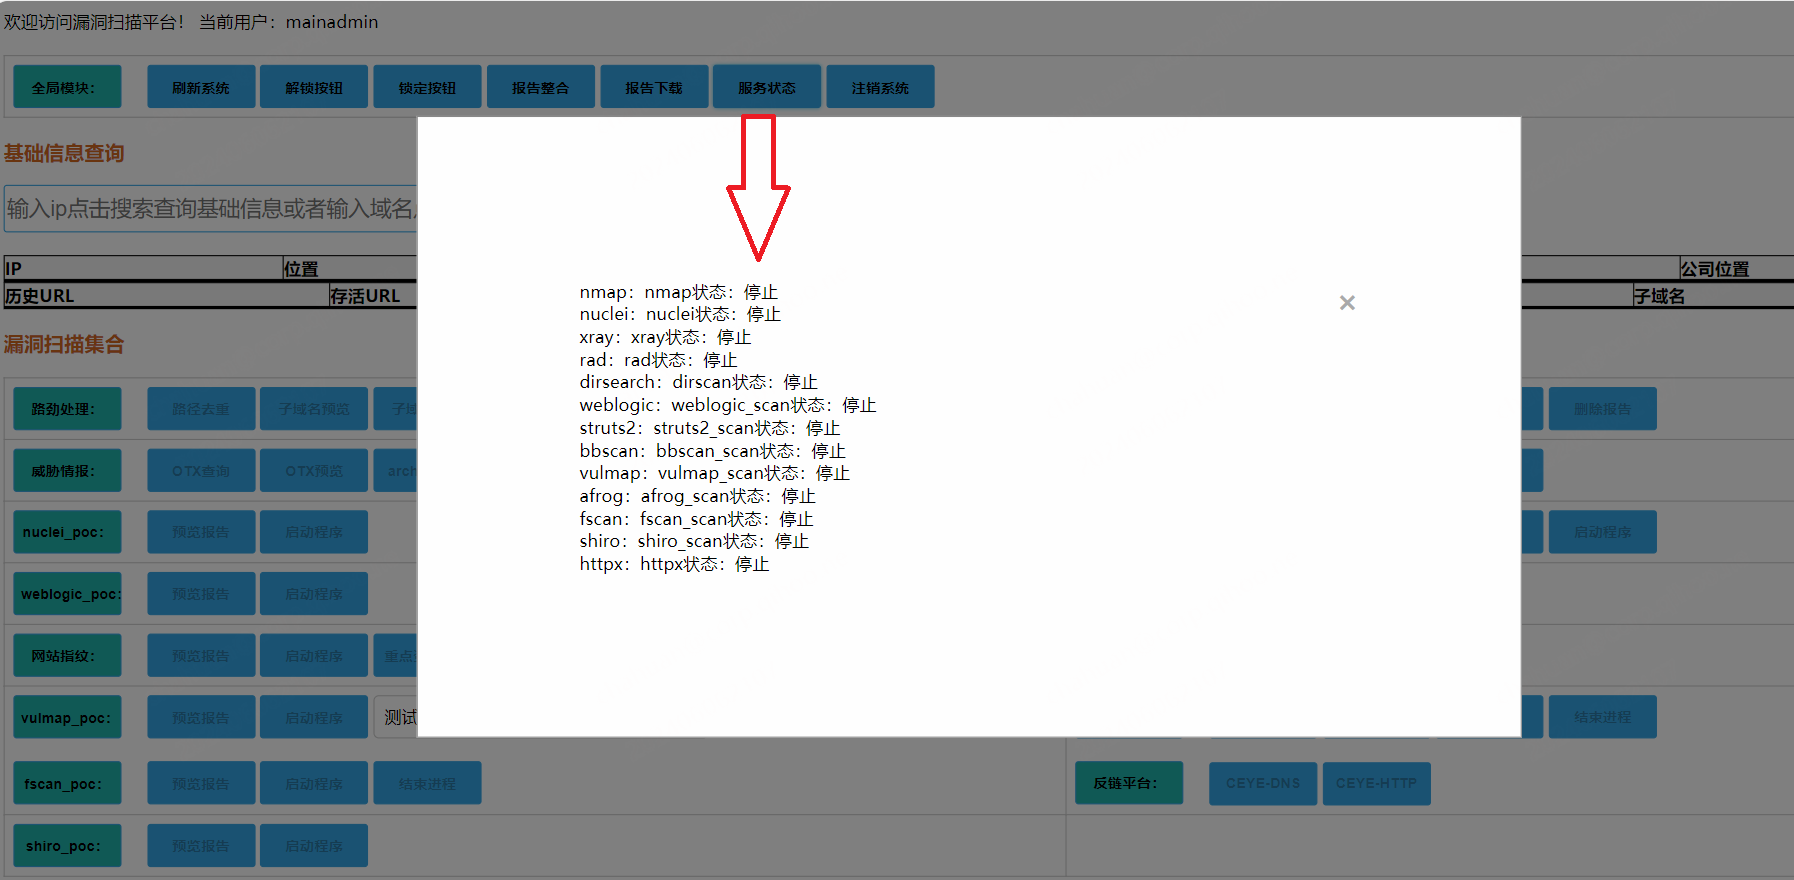
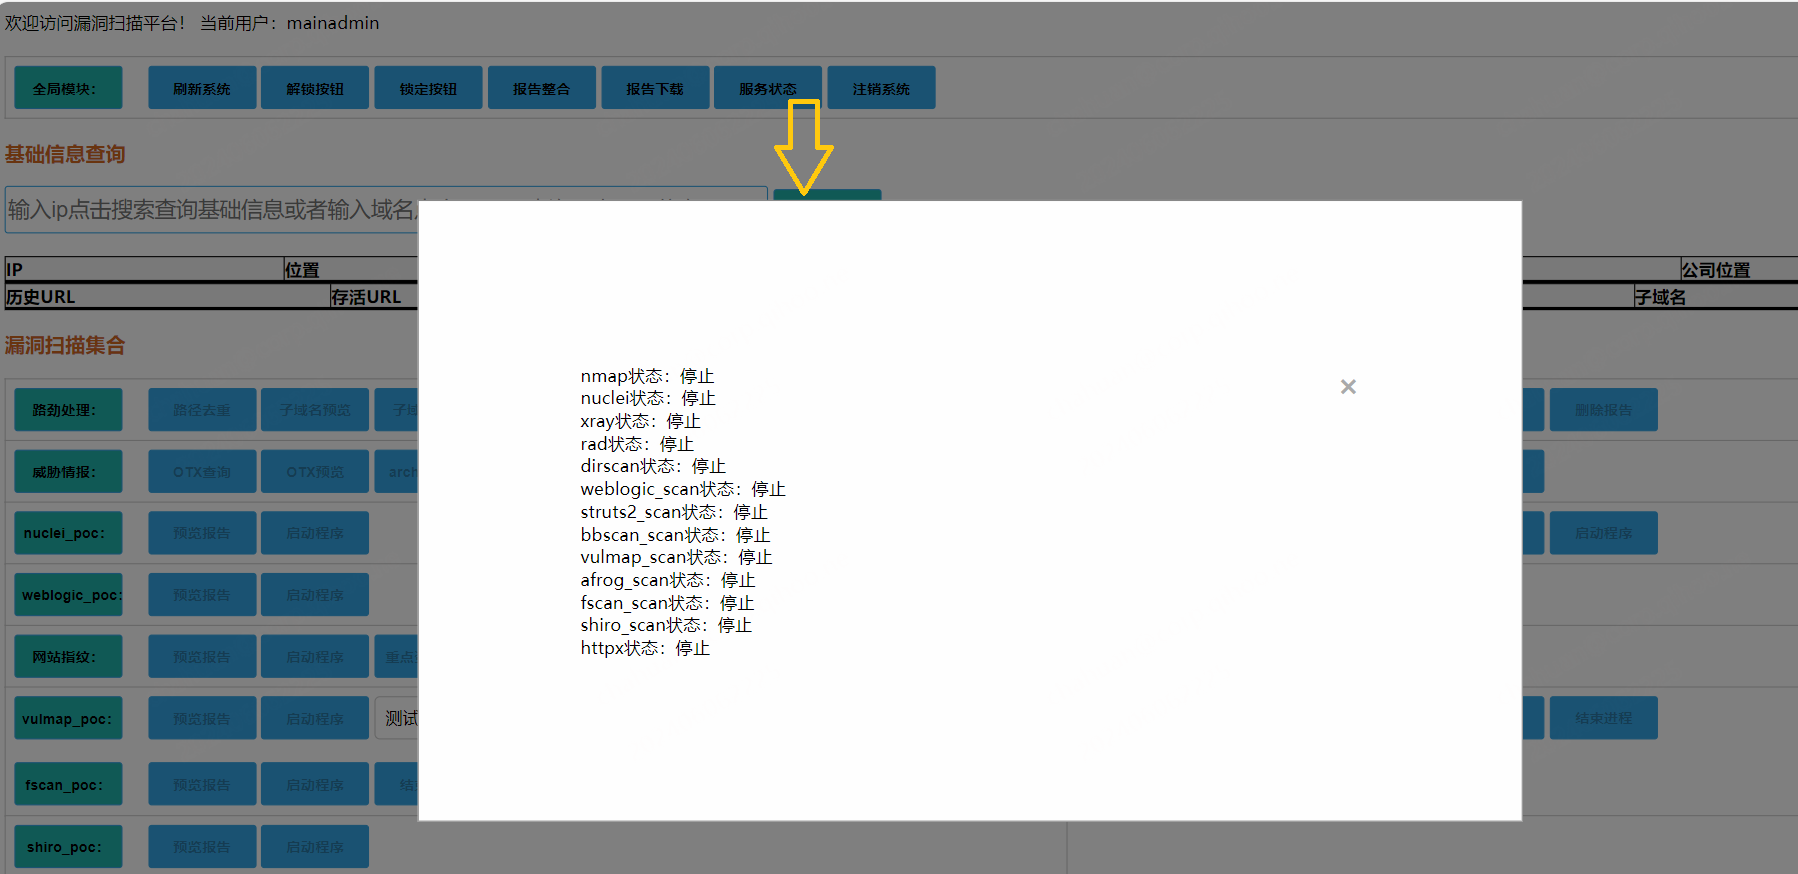
update image

diff --git a/scan_main_web.py b/scan_main_web.py
@@ -317,19 +317,19 @@ def startnuclei():
 def nmapqueuestatus():
     user = session.get('username')
     if str(user) == main_username:
-        nmapstatus ="nmap："+ os.popen('bash ./finger.sh nmapstatus').read()
-        nucleistatus ="nuclei："+ os.popen('bash ./finger.sh nucleistatus').read()
-        xraystatus = "xray："+os.popen('bash ./finger.sh xraystatus').read()
-        radstatus ="rad："+ os.popen('bash ./finger.sh radstatus').read()
-        dirscanstatus = "dirsearch："+os.popen('bash ./finger.sh dirsearchstatus').read()
-        weblogicstatus = "weblogic："+os.popen('bash ./finger.sh weblogic_status').read()
-        struts2status = "struts2："+os.popen('bash ./finger.sh struts2_status').read()
-        bbscanstatus = "bbscan："+os.popen('bash ./finger.sh bbscan_status').read()
-        vulmapscanstatus = "vulmap："+os.popen('bash ./finger.sh vulmapscan_status').read()
-        afrogscanstatus = "afrog："+os.popen('bash ./finger.sh afrogscan_status').read()
-        fscanstatus = "fscan："+os.popen('bash ./finger.sh fscan_status').read()
-        shirostatus = "shiro："+os.popen('bash ./finger.sh shiro_status').read()
-        httpxstatus = "httpx："+os.popen('bash ./finger.sh httpx_status').read()
+        nmapstatus =os.popen('bash ./finger.sh nmapstatus').read()
+        nucleistatus =os.popen('bash ./finger.sh nucleistatus').read()
+        xraystatus = os.popen('bash ./finger.sh xraystatus').read()
+        radstatus =os.popen('bash ./finger.sh radstatus').read()
+        dirscanstatus = os.popen('bash ./finger.sh dirsearchstatus').read()
+        weblogicstatus = os.popen('bash ./finger.sh weblogic_status').read()
+        struts2status = os.popen('bash ./finger.sh struts2_status').read()
+        bbscanstatus = os.popen('bash ./finger.sh bbscan_status').read()
+        vulmapscanstatus = os.popen('bash ./finger.sh vulmapscan_status').read()
+        afrogscanstatus = os.popen('bash ./finger.sh afrogscan_status').read()
+        fscanstatus = os.popen('bash ./finger.sh fscan_status').read()
+        shirostatus = os.popen('bash ./finger.sh shiro_status').read()
+        httpxstatus = os.popen('bash ./finger.sh httpx_status').read()
         message_json = {
             "nmapstatus":nmapstatus,
             "nucleistatus":nucleistatus,
